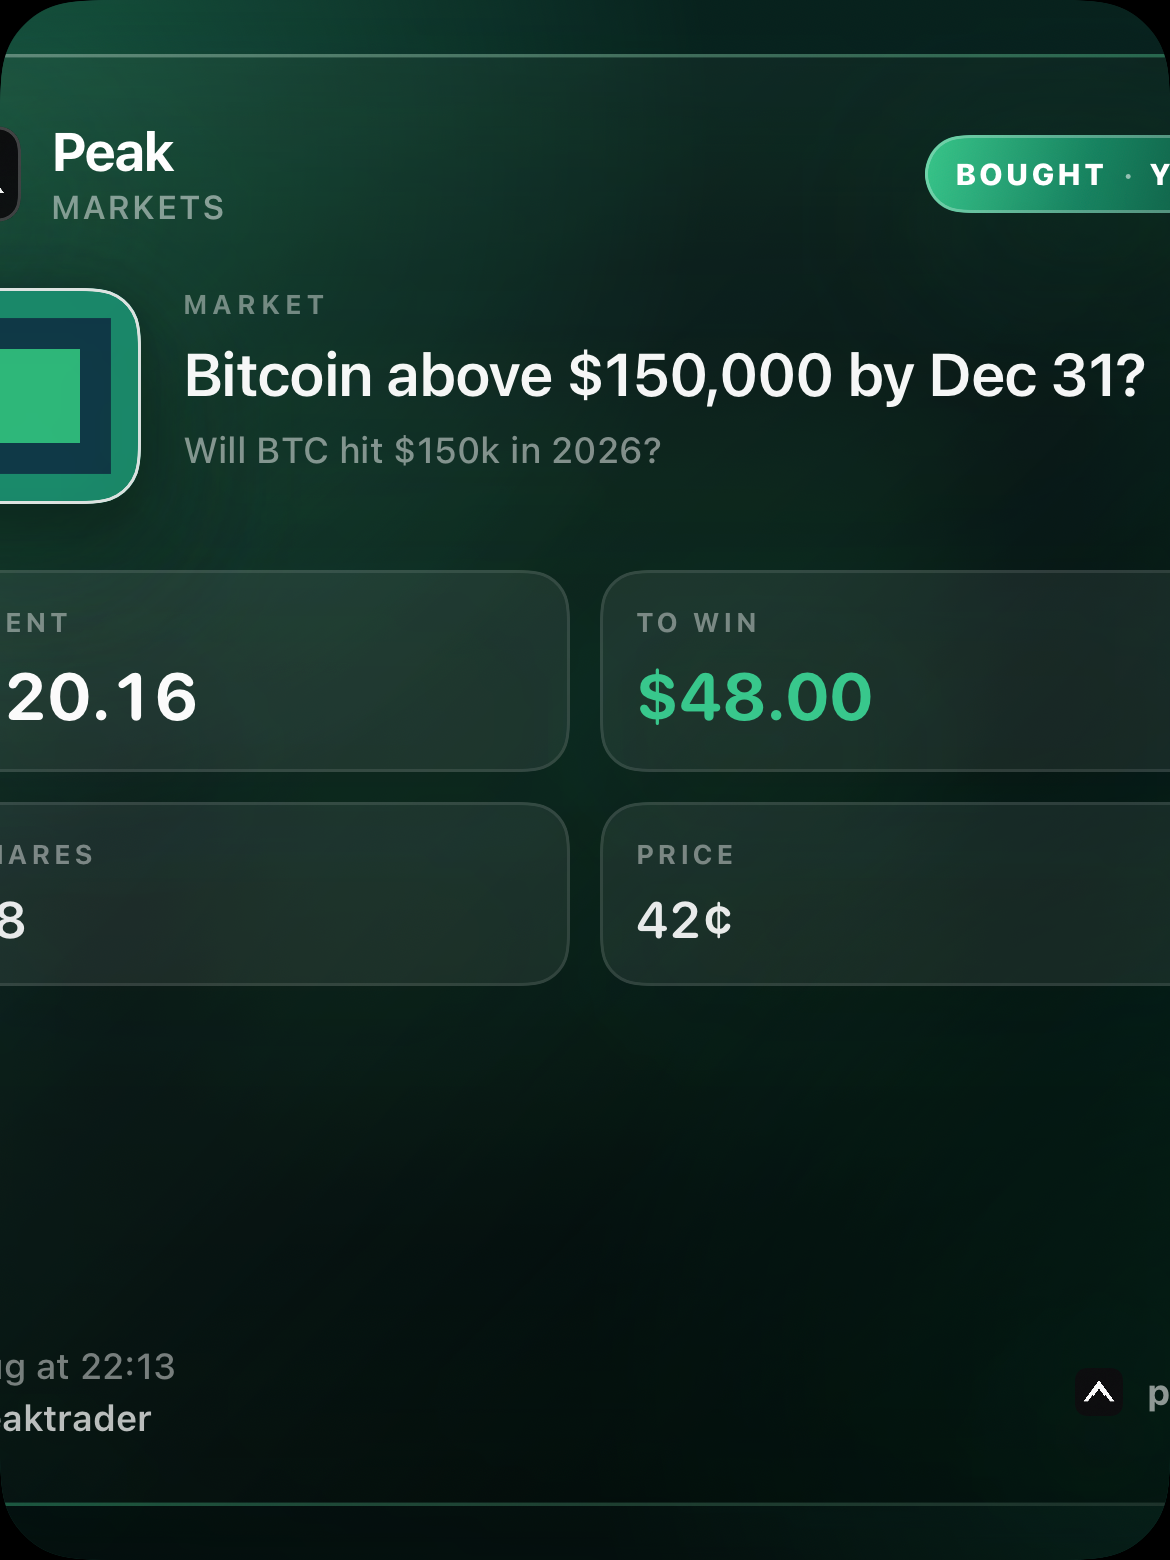
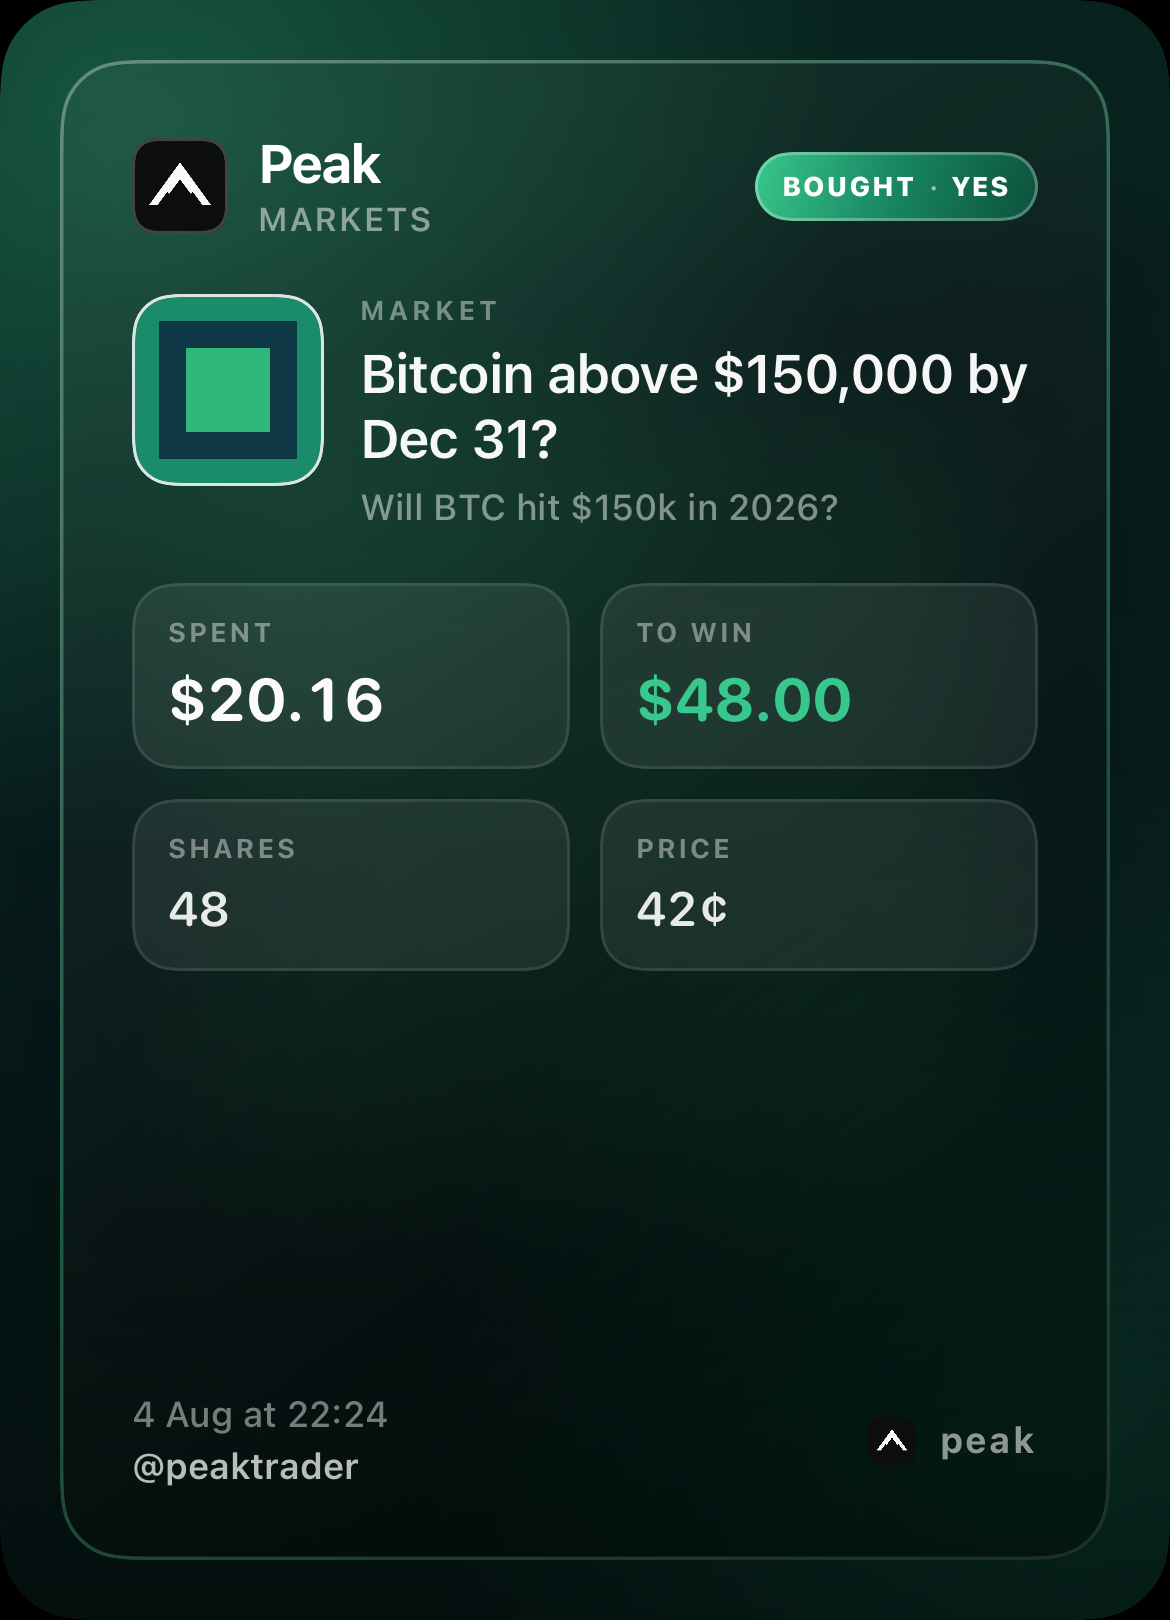
Fix trade share card clipping in ImageRenderer exports.
Constrain ambient blur layout, drop nested clip/shadows that center-cropped the postcard, and tighten padding so badge, stat labels, and footer handle stay fully visible.

diff --git a/Peak/Features/Share/PeakTradeShareCard.swift b/Peak/Features/Share/PeakTradeShareCard.swift
@@ -124,29 +124,36 @@ struct PeakTradeShareCard: View {
     }
 
     var body: some View {
+        // Mirror `PeakPositionShareCard`: one sized ZStack, content padded inside.
+        // Nested clipShapes + unbound `scaledToFill` blurs made ImageRenderer
+        // center-crop the postcard (clipped badge / SPENT / footer).
         ZStack {
             stageAtmosphere
 
             cardSurface
-                .padding(18)
-                .shadow(color: accentBright.opacity(0.20), radius: 28, y: 14)
-                .shadow(color: Color.black.opacity(0.50), radius: 32, y: 18)
+                .padding(20)
         }
-        .frame(width: PeakPostcard.cardWidth, height: PeakPostcard.positionCardHeight)
+        .frame(width: PeakPostcard.cardWidth, height: PeakPostcard.tradeCardHeight)
         .clipShape(RoundedRectangle(cornerRadius: 28, style: .continuous))
     }
 
     // MARK: Atmosphere
 
     private var stageAtmosphere: some View {
-        ZStack {
+        let w = PeakPostcard.cardWidth
+        let h = PeakPostcard.tradeCardHeight
+        return ZStack {
             Color(red: 0.02, green: 0.06, blue: 0.07)
 
             if let blurredBackground {
-                Image(uiImage: blurredBackground)
-                    .resizable()
-                    .scaledToFill()
-                    .frame(maxWidth: .infinity, maxHeight: .infinity)
+                // Explicit size — never let `scaledToFill` inflate ideal size.
+                Color.clear
+                    .overlay {
+                        Image(uiImage: blurredBackground)
+                            .resizable()
+                            .scaledToFill()
+                    }
+                    .frame(width: w, height: h)
                     .clipped()
                     .opacity(0.38)
                     .allowsHitTesting(false)
@@ -186,6 +193,7 @@ struct PeakTradeShareCard: View {
                 endPoint: .bottom
             )
         }
+        .frame(width: w, height: h)
         .allowsHitTesting(false)
     }
 
@@ -196,19 +204,20 @@ struct PeakTradeShareCard: View {
             headerRow
 
             marketBlock
-                .padding(.top, 20)
+                .padding(.top, 18)
 
             statsGrid
-                .padding(.top, 22)
+                .padding(.top, 18)
 
-            Spacer(minLength: 16)
+            Spacer(minLength: 12)
 
             footerRow
+                .layoutPriority(1)
         }
-        .padding(22)
+        .padding(24)
         .frame(maxWidth: .infinity, maxHeight: .infinity, alignment: .topLeading)
         .background {
-            RoundedRectangle(cornerRadius: 24, style: .continuous)
+            RoundedRectangle(cornerRadius: 22, style: .continuous)
                 .fill(
                     LinearGradient(
                         colors: [
@@ -221,13 +230,13 @@ struct PeakTradeShareCard: View {
                     )
                 )
                 .overlay {
-                    RoundedRectangle(cornerRadius: 24, style: .continuous)
+                    RoundedRectangle(cornerRadius: 22, style: .continuous)
                         .fill(accentDeep.opacity(0.35))
                         .blendMode(.overlay)
                 }
         }
         .overlay {
-            RoundedRectangle(cornerRadius: 24, style: .continuous)
+            RoundedRectangle(cornerRadius: 22, style: .continuous)
                 .strokeBorder(
                     LinearGradient(
                         colors: [
@@ -241,16 +250,16 @@ struct PeakTradeShareCard: View {
                     lineWidth: 1.15
                 )
         }
-        .clipShape(RoundedRectangle(cornerRadius: 24, style: .continuous))
     }
 
     private var headerRow: some View {
-        HStack(alignment: .center, spacing: 12) {
+        HStack(alignment: .center, spacing: 10) {
             PeakShareBrandHeader()
+                .layoutPriority(0)
 
-            Spacer(minLength: 8)
+            Spacer(minLength: 6)
 
-            VStack(alignment: .trailing, spacing: 6) {
+            VStack(alignment: .trailing, spacing: 5) {
                 sideOutcomeChip
                 if result.isPartial {
                     partialBadge
@@ -261,23 +270,22 @@ struct PeakTradeShareCard: View {
     }
 
     private var marketBlock: some View {
-        HStack(alignment: .top, spacing: 14) {
+        HStack(alignment: .top, spacing: 12) {
             // Clear, visible thumbnail — not only ambient blur.
-            PeakShareMarketIcon(image: icon, size: 72, corner: 16)
+            PeakShareMarketIcon(image: icon, size: 64, corner: 14)
                 .overlay {
-                    RoundedRectangle(cornerRadius: 16, style: .continuous)
+                    RoundedRectangle(cornerRadius: 14, style: .continuous)
                         .strokeBorder(Color.white.opacity(0.28), lineWidth: 1)
                 }
-                .shadow(color: Color.black.opacity(0.35), radius: 10, y: 6)
 
-            VStack(alignment: .leading, spacing: 6) {
+            VStack(alignment: .leading, spacing: 5) {
                 Text("MARKET")
                     .font(.system(size: 9, weight: .bold))
-                    .tracking(1.5)
+                    .tracking(1.2)
                     .foregroundStyle(Color.white.opacity(0.42))
 
                 Text(result.displayTitle)
-                    .font(.system(size: 20, weight: .semibold))
+                    .font(.system(size: 18, weight: .semibold))
                     .foregroundStyle(Color.white.opacity(0.96))
                     .lineLimit(3)
                     .fixedSize(horizontal: false, vertical: true)
@@ -324,27 +332,30 @@ struct PeakTradeShareCard: View {
         emphasize: Bool = false,
         valueColor: Color? = nil
     ) -> some View {
-        VStack(alignment: .leading, spacing: 6) {
+        VStack(alignment: .leading, spacing: 5) {
             Text(label.uppercased())
                 .font(.system(size: 9, weight: .bold))
-                .tracking(1.1)
+                .tracking(0.8)
                 .foregroundStyle(Color.white.opacity(0.42))
+                .lineLimit(1)
+                .minimumScaleFactor(0.85)
+                .fixedSize(horizontal: true, vertical: false)
             Text(value)
                 .font(
                     .system(
-                        size: emphasize ? 22 : 17,
+                        size: emphasize ? 20 : 16,
                         weight: emphasize ? .bold : .semibold,
                         design: .rounded
                     )
                     .monospacedDigit()
                 )
                 .foregroundStyle(valueColor ?? Color.white.opacity(emphasize ? 0.98 : 0.90))
-                .minimumScaleFactor(0.55)
+                .minimumScaleFactor(0.6)
                 .lineLimit(1)
         }
         .frame(maxWidth: .infinity, alignment: .leading)
         .padding(.horizontal, 12)
-        .padding(.vertical, 12)
+        .padding(.vertical, 11)
         .background(
             RoundedRectangle(cornerRadius: 14, style: .continuous)
                 .fill(Color.white.opacity(0.07))
@@ -364,37 +375,41 @@ struct PeakTradeShareCard: View {
                     .font(.caption.weight(.medium))
                     .foregroundStyle(Color.white.opacity(0.45))
                     .lineLimit(1)
+                    .fixedSize(horizontal: true, vertical: false)
                 if let handle = result.shareHandle {
                     Text(handle)
                         .font(.caption.weight(.semibold))
                         .foregroundStyle(Color.white.opacity(0.72))
                         .lineLimit(1)
+                        .fixedSize(horizontal: true, vertical: false)
                 }
             }
+            .layoutPriority(1)
 
             Spacer(minLength: 8)
 
             PeakShareBrandFooter(trailing: nil, light: false)
+                .fixedSize(horizontal: true, vertical: false)
         }
     }
 
     private var sideOutcomeChip: some View {
-        HStack(spacing: 5) {
+        HStack(spacing: 4) {
             Text(result.side.pastTitle.uppercased())
-                .font(.system(size: 10, weight: .heavy))
-                .tracking(0.8)
+                .font(.system(size: 9, weight: .heavy))
+                .tracking(0.5)
             Text("·")
-                .font(.system(size: 10, weight: .bold))
+                .font(.system(size: 9, weight: .bold))
                 .opacity(0.55)
             Text(result.outcomeLabel.uppercased())
-                .font(.system(size: 10, weight: .heavy))
-                .tracking(0.3)
+                .font(.system(size: 9, weight: .heavy))
+                .tracking(0.2)
         }
         .foregroundStyle(Color.white)
         .lineLimit(1)
-        .minimumScaleFactor(0.75)
-        .padding(.horizontal, 10)
-        .padding(.vertical, 7)
+        .fixedSize(horizontal: true, vertical: false)
+        .padding(.horizontal, 9)
+        .padding(.vertical, 6)
         .background(
             Capsule(style: .continuous)
                 .fill(
@@ -492,6 +507,10 @@ enum PeakTradeShareCardRenderer {
         let blurred = icon.flatMap { PeakShareImageBlur.blurred($0, radius: 34) }
         let card = PeakTradeShareCard(result: result, icon: icon, blurredBackground: blurred)
         let renderer = ImageRenderer(content: card)
+        renderer.proposedSize = ProposedViewSize(
+            width: PeakPostcard.cardWidth,
+            height: PeakPostcard.tradeCardHeight
+        )
         renderer.scale = 3
         renderer.isOpaque = true
         return renderer.uiImage

diff --git a/PeakTests/ShareCardRenderTests.swift b/PeakTests/ShareCardRenderTests.swift
@@ -164,7 +164,7 @@ final class ShareCardRenderTests: XCTestCase {
             )
             let image = try XCTUnwrap(PeakTradeShareCardRenderer.image(result: result))
             XCTAssertEqual(image.size.width, PeakPostcard.cardWidth, accuracy: 1)
-            XCTAssertEqual(image.size.height, PeakPostcard.positionCardHeight, accuracy: 1)
+            XCTAssertEqual(image.size.height, PeakPostcard.tradeCardHeight, accuracy: 1)
             XCTAssertGreaterThan(image.scale, 1)
         }
     }

diff --git a/Peak/Features/Share/ShareMarketSheet.swift b/Peak/Features/Share/ShareMarketSheet.swift
@@ -31,6 +31,9 @@ enum PeakPostcard {
     /// The position card carries four numbers and no chart. At the market
     /// card's height it renders with a third of the paper empty.
     static let positionCardHeight: CGFloat = 520
+    /// Trade fill share — thumbnail + 2×2 stats + footer handle need a bit
+    /// more vertical room than the position postcard.
+    static let tradeCardHeight: CGFloat = 540
 }
 
 struct PeakShareBrandHeader: View {
